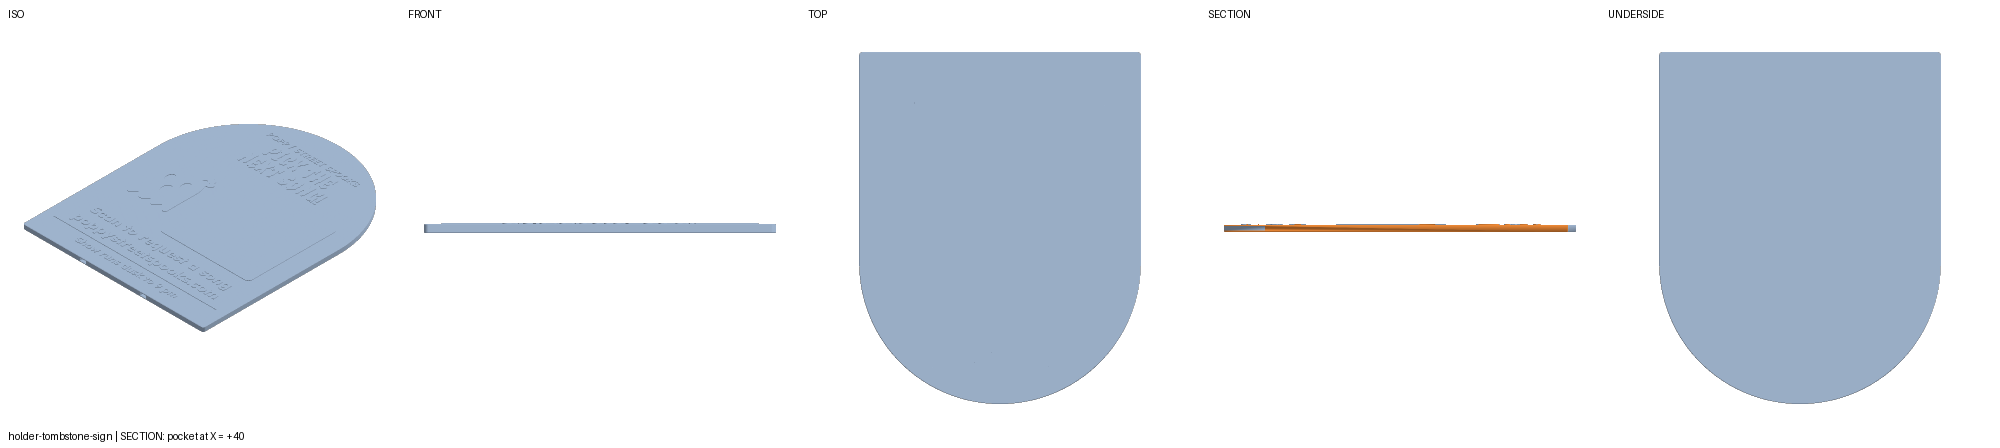
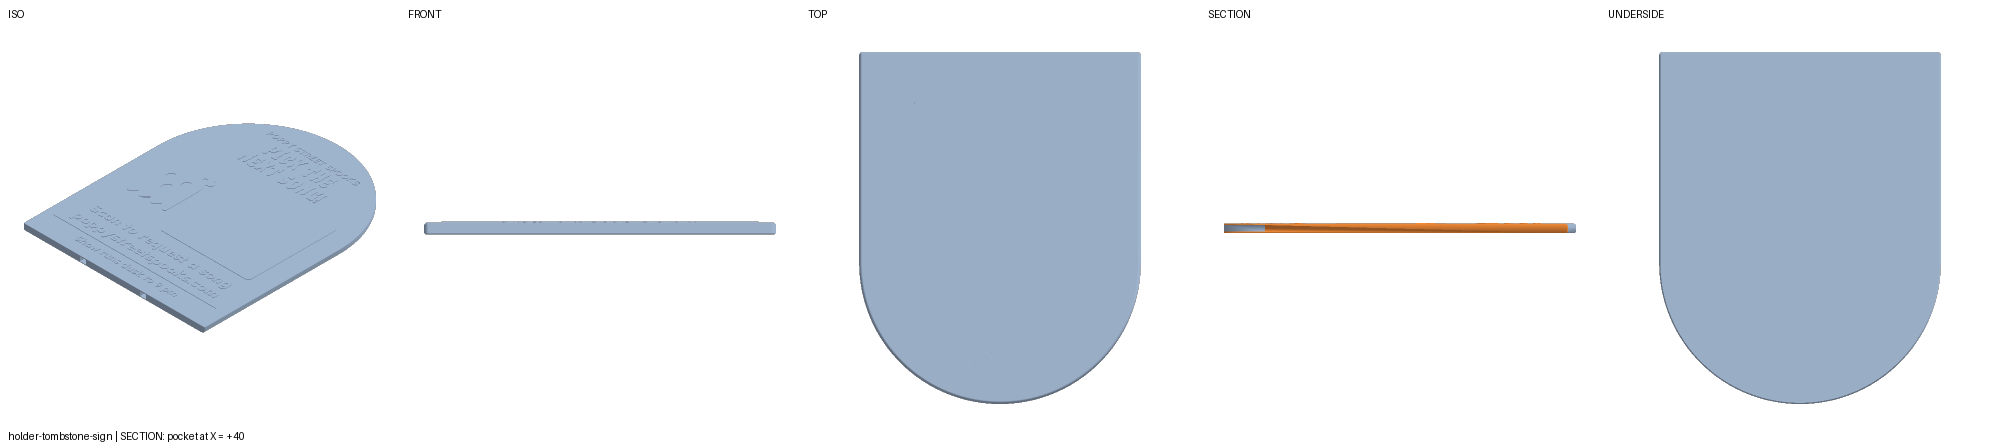
pst-aw7p3: tombstone sign + stake default 8 mm; top rim 2.5 round-over, bed rim 1.0 chamfer, pocket edge keeps 0.4 (#225)
CHANGE 1: sign and stake thickness defaults 6 -> 8 (pin works at the
default; tenon 3.2 -> 5.2), stake preset 'Stake (8 mm)', and a test pins
the two defaults equal.

CHANGE 2: new Params edge_round (2.5, 0 = the old 0.4 chamfer) and
bed_chamfer (1.0, 45 deg). The straight Y = 0 pocket edge keeps 0.4 on both
rims. OCCT eases a tangent-continuous rim loop whole, so each rim changes
size inside the 3 mm plan corners: the top is one evolving-radius fillet
(0.4 round on Y = 0 -> edge_round), the bed a swept 45 deg cutter ramping
0.4 -> bed_chamfer. Guards: edge_round + stroke floor < margin;
edge_round + bed_chamfer < thickness. Review sheets/sections + manifest
regenerated.

Claude-Session: https://claude.ai/code/session_016pnS1xtTfYZ38hTWmFHtZL

🤖 Generated with [Claude Code](https://claude.com/claude-code)

diff --git a/build123d/holders/tombstone_sign.py b/build123d/holders/tombstone_sign.py
@@ -62,10 +62,25 @@ viewer GLB's materials.
 Pockets print as flat 8 mm roofs over the void (bridges <= MAX_BRIDGE_MM;
 audit_exclusions lists those planes, measured by the tests first). The
 pin hole is a flat-topped teardrop (signs.pin_profile). Pocket mouths and
-the pin hole are mating edges and stay sharp; the plate rims carry a 0.4
-chamfer on both faces (bed: elephant's foot). Glyph, art and QR edges are
+the pin hole are mating edges and stay sharp. Glyph, art and QR edges are
 the feature and stay sharp, as on the label card. Raised features add
 material, so they may run down to the margin over the pockets.
+
+Rims (pst-aw7p3, after the first test print lifted an edge strip): the TOP
+rim (printed last) is rounded over `edge_round` (2.5): a round-over on an
+upper outer edge makes every layer smaller than the one below, so it never
+overhangs. The BED rim takes a 45-degree `bed_chamfer` (1.0, never a
+fillet on the bed side): it beats elephant's foot and gives a spatula a
+clean entry under the plate; it is wider than the guideline's 0.3-0.5 on
+purpose. The straight bottom edge (Y = 0, where the pockets enter, SKIN 1.2
+from each face) keeps EDGE_CHAMFER's 0.4 on both rims: a 2.5 round-over
+there would cut through the skin over each pocket mouth. The rim is one
+tangent-continuous loop, which OCCT eases whole, so each rim changes size
+INSIDE the two CORNER_R plan corners: the top is one evolving-radius
+fillet (0.4 along Y = 0, ramping to edge_round round each corner), so on
+that edge it is a 0.4 round, not a chamfer; the bed is cut by a swept 45-
+degree cutter whose size ramps 0.4 -> bed_chamfer the same way.
+edge_round = 0 is the former 0.4 chamfer on the whole top rim.
 
 Worst-case load: wind on the face, bending the plate about the X axis at
 the pockets; the tenons carry it into the stake. The load path runs along
@@ -77,8 +92,12 @@ from __future__ import annotations
 from functools import lru_cache, reduce
 from pathlib import Path
 
-from build123d import Axis, Box, Compound, Face, FontStyle, Part, Pos, Vector, Wire, chamfer, \
-    extrude
+from build123d import Axis, Box, Compound, Edge, Face, FontStyle, Part, Pos, Solid, Vector, \
+    Wire, chamfer, extrude
+from OCP.BRepFilletAPI import BRepFilletAPI_MakeFillet
+from OCP.BRepOffsetAPI import BRepOffsetAPI_MakePipeShell
+from OCP.gp import gp_Dir
+from OCP.TopoDS import TopoDS
 from holders import sign_ghost, signs
 from holders.label_card import _glyph_order
 from holders.printer import BED_X, BED_Y
@@ -93,7 +112,7 @@ RAISE_H = INLAY_DEPTH       # 0.6 mm = 3 layers proud of the top face
 FLOOR = STROKE_FLOOR_RAISED
 THRESHOLD = FLOOR + FLOOR_MARGIN  # what every raised stroke must clear
 RULE_W = THRESHOLD          # the footer rule is one stroke-floor line
-EDGE_CHAMFER = 0.4          # both rims, as the label card
+EDGE_CHAMFER = 0.4          # both rims of the Y = 0 pocket edge; the whole top rim at edge_round 0
 QR_CORNER_R = 6.0           # bone panel rounding, inside the 4-module quiet zone
 GHOST_SHARE = 0.65          # ghost height / panel height (the poster's is 0.47)
 CONTENT_CHORD = 0.5         # content stops where the arch is this share of the inset width
@@ -343,6 +362,14 @@ def validate(values: dict) -> None:
     signs.qr_regions(qr_data(values), qr)  # the pitch guard
     if values['retention'] == 'pin':
         signs.check_pin_thickness(values['thickness'])
+    r, d, t = values['edge_round'], values['bed_chamfer'], values['thickness']
+    if r + FLOOR >= m:
+        raise ValueError(f'edge_round {r:g} mm + the {FLOOR:g} mm stroke floor must stay '
+                         f'< margin {m:g} mm: the round-over would eat the raised features '
+                         f'at the margin; edge_round must be < {m - FLOOR:g} mm')
+    if max(r, EDGE_CHAMFER) + d >= t:
+        raise ValueError(f'edge_round {r:g} mm + bed_chamfer {d:g} mm must stay < thickness '
+                         f'{t:g} mm: the two rims would meet')
     if _frame(values) is None:
         need = min_height(values)
         advice = (f'height must be >= {need:g} mm for these values' if need <= MAX_HEIGHT else
@@ -353,12 +380,66 @@ def validate(values: dict) -> None:
             f'stroke floor between the {m:g} mm margin floor and the arch; {advice}')
 
 
+def _on_pocket_edge(point) -> bool:
+    return abs(point.Y) < 1e-6
+
+
+def _top_rim(blank: Part, r: float) -> Part:
+    """The top rim eased: a round-over r ramping to EDGE_CHAMFER on the Y = 0
+    edge across each plan corner (one evolving-radius fillet, since OCCT
+    eases the whole tangent loop), or at r = 0 a plain EDGE_CHAMFER."""
+    top = blank.faces().sort_by(Axis.Z)[-1]
+    if r == 0:
+        return chamfer(top.edges(), EDGE_CHAMFER)
+    mk = BRepFilletAPI_MakeFillet(blank.wrapped)
+    mk.Add(EDGE_CHAMFER, top.edges()[0].wrapped)  # the whole loop is one contour
+    for i in range(1, mk.NbEdges(1) + 1):
+        edge = Edge(mk.Edge(1, i))
+        r0, r1 = (EDGE_CHAMFER if _on_pocket_edge(edge.position_at(u)) else r for u in (0, 1))
+        mk.SetRadius(r0, r1, 1, i)
+    mk.Build()
+    if not mk.IsDone():
+        raise ValueError(f'edge_round {r:g} mm: the top rim round-over failed')
+    return Part(mk.Shape())
+
+
+def _bed_rim_cutter(outline: Face, d: float) -> Part:
+    """The bed rim's 45-degree chamfer as a cutter: per outline edge, a
+    swept triangle whose chamfer leg runs from (d inward, Z 0) to (the wall,
+    Z d), d being EDGE_CHAMFER at a Y = 0 vertex and `d` elsewhere, so it
+    ramps across each plan corner. The other two legs stand outside the
+    plate, so every cut crosses the bed and the wall transversally."""
+    up = Vector(0, 0, 1)
+    def section(point, tangent):
+        size = EDGE_CHAMFER if _on_pocket_edge(point) else d
+        inward = up.cross(tangent).normalized()
+        if not outline.is_inside(point + inward * 0.05):
+            inward = -inward
+        return Wire.make_polygon([point + inward * (2 * size) - up * size,
+                                  point - inward * size + up * (2 * size),
+                                  point - inward * size - up * size], close=True)
+    cutters = []
+    for edge in outline.outer_wire().edges():
+        spine = Wire([edge])
+        pipe = BRepOffsetAPI_MakePipeShell(spine.wrapped)
+        pipe.SetMode(gp_Dir(0, 0, 1))  # sections stay vertical
+        for u in (0, 1):
+            point = edge.position_at(u)
+            vertex = min(spine.vertices(), key=lambda v: (Vector(v) - point).length)
+            pipe.Add(section(point, edge.tangent_at(u)).wrapped,
+                     TopoDS.Vertex_s(vertex.wrapped), False, False)
+        pipe.Build()
+        pipe.MakeSolid()
+        cutters.append(Solid(pipe.Shape()))
+    return cutters[0].fuse(*cutters[1:]).clean()
+
+
 def plate(values: dict) -> Part:
-    """The uncoloured plate in the print frame: outline, rim chamfers, pockets, pin hole."""
+    """The uncoloured plate in the print frame: outline, eased rims, pockets, pin hole."""
     w, h, t = values['width'], values['height'], values['thickness']
-    blank = extrude(signs.outline(w, h, values['arch']), t)
-    rims = blank.faces().sort_by(Axis.Z)
-    out = chamfer(rims[0].edges() + rims[-1].edges(), EDGE_CHAMFER)
+    outline = signs.outline(w, h, values['arch'])
+    out = _top_rim(extrude(outline, t), values['edge_round'])
+    out -= _bed_rim_cutter(outline.faces()[0], values['bed_chamfer'])
     for x in signs.POCKET_XS:
         out -= Pos(x, signs.POCKET_DEPTH / 2 - 0.5, t / 2) * Box(
             signs.POCKET_W, signs.POCKET_DEPTH + 1, signs.pocket_height(t))
@@ -522,11 +603,17 @@ PARAMS = (
           min=100.0, max=MAX_WIDTH, step=1.0),
     Param('height', 'number', 300.0, label='Height', group='Plate', unit='mm',
           min=150.0, max=MAX_HEIGHT, step=1.0),
-    Param('thickness', 'number', 6.0, label='Thickness', group='Plate', unit='mm',
+    Param('thickness', 'number', 8.0, label='Thickness', group='Plate', unit='mm',
           min=5.0, max=12.0, step=0.2),
     Param('arch', 'enum', 'round', label='Arch', group='Plate', choices=('round', 'shoulder')),
     Param('margin', 'number', 12.0, label='Margin', group='Plate', unit='mm',
           min=3.0, max=20.0, step=0.5),
+    Param('edge_round', 'number', 2.5, label='Top edge round-over', group='Plate', unit='mm',
+          min=0.0, max=4.0, step=0.5,
+          description='Front-face rim; the pocket edge keeps 0.4. 0 = a 0.4 chamfer.'),
+    Param('bed_chamfer', 'number', 1.0, label='Bed edge chamfer', group='Plate', unit='mm',
+          min=0.4, max=1.5, step=0.1,
+          description='45-degree, bed-face rim; the pocket edge keeps 0.4.'),
     _text('eyebrow', 'Poppy Street Spooks', 'Eyebrow (printed in capitals)'),
     _text('title', 'Pick the next song!', 'Title'),
     _text('scan_line', 'Scan to request a song', 'Scan line'),

diff --git a/build123d/tests/test_tombstone_sign.py b/build123d/tests/test_tombstone_sign.py
@@ -92,7 +92,9 @@ def test_registered_as_a_multi_colour_household_model():
     colours = params['colours']
     assert colours.kind == 'integer' and type(colours.default) is int
     assert (colours.default, colours.min, colours.max) == (8, 2, 8)
-    assert params['margin'].default == 12.0 and params['thickness'].default == 6.0
+    assert params['margin'].default == 12.0 and params['thickness'].default == 8.0
+    assert (params['edge_round'].default, params['edge_round'].min, params['edge_round'].max) == (2.5, 0, 4)
+    assert (params['bed_chamfer'].default, params['bed_chamfer'].min, params['bed_chamfer'].max) == (1, 0.4, 1.5)
     assert params['qr_size'].default == 120.0
     assert params['width'].max == m.MAX_WIDTH == 325 and params['height'].max == m.MAX_HEIGHT == 320
     assert list(PRESETS) == ['default', 'one-ams', 'two-colour', 'pinned', 'small']
@@ -339,6 +341,16 @@ def test_art_row_guard_names_the_inset_width():
 def test_blank_host_is_a_guard():
     with pytest.raises(ValueError, match=r'host is blank'):
         m.validate(SPEC.resolve_values({'host': '  '}))
+
+
+def test_rim_guards_name_the_margin_and_the_thickness():
+    with pytest.raises(ValueError, match=r'edge_round 3 mm \+ the 0\.9 mm stroke floor must '
+                                         r'stay < margin 3\.5 mm.*< 2\.6 mm'):
+        m.validate(SPEC.resolve_values({'edge_round': 3.0, 'margin': 3.5}))
+    m.validate(SPEC.resolve_values({'edge_round': 2.5, 'margin': 3.5}))
+    with pytest.raises(ValueError, match=r'edge_round 4 mm \+ bed_chamfer 1\.5 mm must stay '
+                                         r'< thickness 5 mm'):
+        m.validate(SPEC.resolve_values({'edge_round': 4.0, 'bed_chamfer': 1.5, 'thickness': 5.0}))
 
 
 def test_height_below_the_arch_radius_is_a_guard_not_a_kernel_error():
@@ -735,7 +747,8 @@ def test_raw_audit_fails_only_on_the_excluded_ceilings():
 
 def unfinished_edges(values, plate):
     """Plate edges that are neither eased (on a 45-degree rim chamfer),
-    tangent (outline seams) nor joint (pocket / pin: mating, left sharp)."""
+    tangent (outline seams, and every edge of the top round-over) nor joint
+    (pocket / pin: mating, left sharp)."""
     t = values['thickness']
     joint = [(x - signs.POCKET_W / 2 - 1e-3, x + signs.POCKET_W / 2 + 1e-3) for x in signs.POCKET_XS]
     bad = []
@@ -743,7 +756,9 @@ def unfinished_edges(values, plate):
         c = edge.center()
         faces = [f for f in plate.faces() if any(e.is_same(edge) for e in f.edges())]
         normals = [f.normal_at(c) for f in faces]
-        chamfered = any(abs(abs(n.Z) - math.sqrt(0.5)) < 1e-3 for n in normals)
+        # 45 degrees, or up to ~2 degrees STEEPER on the bed rim's corner
+        # ramp, whose chamfer tilts as its size changes (never an overhang)
+        chamfered = any(-0.03 < abs(n.Z) - math.sqrt(0.5) < 1e-3 for n in normals)
         tangent = len(normals) == 2 and normals[0].dot(normals[1]) > 0.999
         in_pocket = c.Y <= signs.POCKET_DEPTH + 1e-3 and any(a <= c.X <= b for a, b in joint) \
             and signs.SKIN - 1e-3 <= c.Z <= t - signs.SKIN + 1e-3
@@ -755,8 +770,44 @@ def unfinished_edges(values, plate):
 
 @pytest.mark.parametrize('preset_id', ['default', 'pinned'])
 def test_every_plate_edge_is_eased_tangent_or_a_mating_edge(preset_id):
-    """Rims carry the 0.4 chamfer; outline seams are tangent; pocket and pin
-    edges are the joint (mating, left sharp). Raised feature edges are the
-    feature (sharp, as on the label card)."""
+    """Rims carry the round-over / bed chamfer; outline seams are tangent;
+    pocket and pin edges are the joint (mating, left sharp). Raised feature
+    edges are the feature (sharp, as on the label card)."""
     values = values_of(preset_id)
     assert not unfinished_edges(values, m.plate(values))
+
+
+def _eased(plate, point, inward, up, depth):
+    """Is the rim corner at `point` cut back `depth` along the diagonal
+    (`inward` in plan, `up` = +-Z into the plate)?"""
+    return not plate.is_inside(point + inward * depth + up * depth)
+
+
+@pytest.mark.parametrize('overrides', [{}, {'arch': 'shoulder', 'edge_round': 1.5},
+                                       {'edge_round': 0.0}])
+def test_pocket_edge_keeps_04_and_the_arch_and_sides_take_edge_round_and_bed_chamfer(overrides):
+    """A rim eased by a 45-degree chamfer d is cut along its corner diagonal
+    to d / 2, a round-over r to r (1 - 1/sqrt 2); probe 10 % either side.
+    The Y = 0 pocket edge keeps 0.4 on both rims (a 0.4 round on top), so a
+    2.5 round-over cannot reach the 1.2 mm skin over the pocket mouths."""
+    values = SPEC.resolve_values(overrides)
+    plate = m.plate(values)
+    w, h, t = values['width'], values['height'], values['thickness']
+    r, d = values['edge_round'], values['bed_chamfer']
+    top_cut = r * (1 - math.sqrt(0.5)) if r else m.EDGE_CHAMFER / 2
+    pocket_top_cut = m.EDGE_CHAMFER * (1 - math.sqrt(0.5)) if r else m.EDGE_CHAMFER / 2
+    down, up = Vector(0, 0, -1), Vector(0, 0, 1)
+    rims = [  # (point on the outline at Z 0, inward, top cut, bed cut)
+        (Vector(0, 0, 0), Vector(0, 1, 0), pocket_top_cut, m.EDGE_CHAMFER / 2),
+        (Vector(signs.POCKET_OFFSET + 8, 0, 0), Vector(0, 1, 0), pocket_top_cut,
+         m.EDGE_CHAMFER / 2),
+        (Vector(w / 2, h / 3, 0), Vector(-1, 0, 0), top_cut, d / 2),
+        (Vector(-w / 2, h / 3, 0), Vector(1, 0, 0), top_cut, d / 2),
+        (Vector(0, h, 0), Vector(0, -1, 0), top_cut, d / 2),
+    ]
+    for point, inward, top, bed in rims:
+        crown = point + Vector(0, 0, t)
+        assert _eased(plate, crown, inward, down, 0.9 * top), (point, 'top')
+        assert not _eased(plate, crown, inward, down, 1.1 * top), (point, 'top')
+        assert _eased(plate, point, inward, up, 0.9 * bed), (point, 'bed')
+        assert not _eased(plate, point, inward, up, 1.1 * bed), (point, 'bed')

diff --git a/build123d/holders/tombstone_stake.py b/build123d/holders/tombstone_stake.py
@@ -9,8 +9,9 @@ whole printed length, tip to tenon ends, so length <= 320 is the bed bound.
 
 The joint numbers come from holders/signs.py, which the sign imports too:
 each tenon is signs.tenon_w() x signs.tenon_len() x signs.tenon_t(thickness)
-(7.6 x 34.6 x 3.2 at thickness 6). `thickness` is the stake blade's and
-must equal the sign's: the tenon height is the contract's formula of it.
+(7.6 x 34.6 x 5.2 at the default thickness 8). `thickness` is the stake
+blade's and must equal the sign's: the tenon height is the contract's
+formula of it, and the two parts' defaults are pinned equal by a test.
 The tenon is FLUSH WITH THE BED FACE (stake Z in [0, tenon_t]), never
 centred in the blade, because a mid-thickness tenon printed flat would be a
 7.6 x 34.6 mm flat ceiling. Assembled, sign Z = stake Z + SKIN +
@@ -45,9 +46,9 @@ Worst-case load: wind on the face of the default 240 x 300 sign, pushing
 along Z. The sign's moment about X crosses the joint in the two tenons,
 spreads through the head and the 45-degree shoulders into the shaft, and
 is resisted by the soil along the buried shaft. The blade prints flat, so
-that bending stress runs along the layers. At thickness 6 the tenons (7.6
-x 3.2 each) are the weakest section; use 8 mm (tenons 5.2) for an exposed
-site. PLA or PCTG; PCTG for a stake left outdoors.
+that bending stress runs along the layers. The tenons (7.6 x 5.2 each at
+the default 8 mm; 3.2 at 6) are the weakest section, so keep 8 mm or more
+for an exposed site. PLA or PCTG; PCTG for a stake left outdoors.
 """
 from __future__ import annotations
 
@@ -60,7 +61,7 @@ from holders.printer import BED_Y
 from holders.registry import ModelSpec, Param, Preset, register
 from scripts.thumbnail import PlaneSpec
 
-EDGE_CHAMFER = 0.4          # both rims and the tenons' bed rims, as the sign
+EDGE_CHAMFER = 0.4          # both rims and the tenons' bed rims (the sign's pocket edge)
 CORNER_R = signs.CORNER_R   # plan rounding of convex corners (3)
 SHOULDER_R = 5.0            # plan fillet of the concave shoulder-to-shaft corners
 POINT_DEG = 45.0            # included angle of the shaft's point
@@ -225,7 +226,7 @@ PARAMS = (
     Param('length', 'number', 300.0, label='Length', group='Stake', unit='mm',
           min=150.0, max=MAX_LENGTH, step=1.0,
           description='Tip to tenon ends: the whole printed length.'),
-    Param('thickness', 'number', 6.0, label='Thickness', group='Stake', unit='mm',
+    Param('thickness', 'number', 8.0, label='Thickness', group='Stake', unit='mm',
           min=5.0, max=10.0, step=0.2,
           description="Match the sign's thickness: the tenons are sized from it."),
     Param('head_width', 'number', 90.0, label='Head width', group='Head', unit='mm',
@@ -255,7 +256,7 @@ SPEC = register(ModelSpec(
     print_orientation=(0, 0, 1),  # flat, the tenon face on the bed
     params=PARAMS,
     presets=(
-        Preset('default', 'Stake (6 mm)', {}),
+        Preset('default', 'Stake (8 mm)', {}),
         Preset('long', 'Long (320 mm)', {'length': 320.0}),
         Preset('cross-bar', 'With cross-bar', {'cross_bar': True}),
         Preset('pinned', 'Pinned (8 mm)', {'thickness': 8.0, 'retention': 'pin'}),

diff --git a/build123d/tests/test_tombstone_stake.py b/build123d/tests/test_tombstone_stake.py
@@ -51,7 +51,7 @@ def test_registered_as_a_household_sign_model():
     params = {p.name: p for p in SPEC.params}
     assert (params['width'].default, params['width'].min, params['width'].max) == (40, 25, 60)
     assert (params['length'].default, params['length'].max) == (300, 320)
-    assert (params['thickness'].default, params['thickness'].min, params['thickness'].max) == (6, 5, 10)
+    assert (params['thickness'].default, params['thickness'].min, params['thickness'].max) == (8, 5, 10)
     assert (params['head_width'].default, params['head_width'].min) == (90, pytest.approx(87.6))
     assert (params['head_height'].min, params['head_height'].max) == (20, 60)
     assert params['retention'].choices == ('none', 'pin') and params['retention'].default == 'none'
@@ -151,6 +151,13 @@ def test_point_is_45_degrees_included_and_ends_below_the_shoulders():
 
 
 # --- the 3D joint against the real sign -----------------------------------
+
+def test_stake_default_thickness_is_the_signs():
+    """The tenons are the contract's formula of the stake's OWN thickness
+    Param: a sign default that moved alone would ship a loose joint
+    (tenon_t(6) = 3.2 in an 8 mm sign's 5.6 mm pocket)."""
+    assert m.DEFAULTS['thickness'] == tombstone_sign.DEFAULTS['thickness'] == 8.0
+
 
 def _assembled(thickness: float, pin: bool):
     """(sign, stake placed in the sign frame) for one thickness."""

diff --git a/build123d/docs/tombstone-sign.md b/build123d/docs/tombstone-sign.md
@@ -9,7 +9,7 @@ in its bottom edge take a separately printed stake (S2,
 `holder-tombstone-stake`). It lives in the `household` catalog category.
 
 Presets:
-- **default**: 240 × 300 × 6, eight colours.
+- **default**: 240 × 300 × 8, eight colours.
 - **one-ams**: four colours (base, bone, pumpkin, poppy), one AMS.
 - **two-colour**: bone on ground; the QR dark modules are holes.
 - **pinned**: 8 mm plate with a pin cross-hole.
@@ -21,7 +21,9 @@ Presets:
 | Controls | Domain / behaviour |
 | --- | --- |
 | Width / height | 100–325 / 150–320 mm (the H2S single-nozzle bed, printed flat); height must also be ≥ the arch radius + 6 mm |
-| Thickness | 5–12 mm; `retention = pin` needs ≥ 7.8 mm |
+| Thickness | 5–12 mm (default 8, so `retention = pin` works out of the box); `retention = pin` needs ≥ 7.8 mm |
+| Top edge round-over | 0–4 mm (default 2.5); 0 is a 0.4 mm chamfer. With the stroke floor (0.9) it must stay below the margin |
+| Bed edge chamfer | 0.4–1.5 mm (default 1.0), 45°. Round-over + bed chamfer must stay below the thickness |
 | Arch | `round` (radius = width / 2) or `shoulder` (radius = width / 3, flat shoulders) |
 | Margin | 3–20 mm (default 12) inset from the outline; the rhythm unit is a third of it |
 | Eyebrow, title, scan line, host, footer | Printable ASCII, ≤ 24 characters each; a blank line is left out |
@@ -202,9 +204,26 @@ cannot drift apart.
 
 ## Printability
 
-The sign prints flat, face up. The rims of both faces carry a 0.4 mm
-chamfer (on the bed side, this relieves elephant's foot). In plan, the
-outline corners are rounded 3 mm. Every raised feature has walls ≥ 0.9 mm
+The sign prints flat, face up. In plan, the outline corners are rounded
+3 mm. The rims (pst-aw7p3, after the first test print lifted a strip along
+the edge of the top face):
+
+- **Top rim** (printed last): a round-over, `edge_round` (2.5 mm). On an
+  upper outer edge, a round-over makes every layer smaller than the one
+  below it, so it never overhangs.
+- **Bed rim**: a 45° chamfer, `bed_chamfer` (1.0 mm). The bed side never
+  gets a fillet. This is wider than the guideline's 0.3–0.5 mm on purpose:
+  it beats elephant's foot and gives a spatula a clean way under the plate.
+- **The straight bottom edge** (Y = 0, where the pockets and their 1.2 mm
+  skins meet the edge) keeps 0.4 mm on both rims. A 2.5 mm round-over there
+  would cut through the skin over each pocket mouth.
+
+The rim is one tangent-continuous loop, and OCCT eases a tangent loop as a
+whole. So each rim changes size inside the two 3 mm bottom plan corners.
+The top rim is one fillet whose radius ramps from 0.4 (a 0.4 round, not a
+chamfer, along Y = 0) to `edge_round`. The bed rim is cut by a swept 45°
+cutter whose size ramps from 0.4 to `bed_chamfer`. On the ramp the chamfer
+tilts up to about 2° steeper than 45°, which is never an overhang. Every raised feature has walls ≥ 0.9 mm
 (the stroke floor), so the thin-wall check passes without an exclusion.
 
 A pocket's roof is a flat 8 mm bridge, below `MAX_BRIDGE_MM` (10). The
@@ -248,7 +267,7 @@ gives the minimum. So is a head narrower than 2 × (40 + 7.6 / 2) = 87.6 mm,
 where the tenons would overhang the head.
 
 Presets:
-- **default**: 40 × 300 × 6, head 90 × 30.
+- **default**: 40 × 300 × 8, head 90 × 30 (the sign's default thickness; a test pins the two equal).
 - **long**: 320 mm.
 - **cross-bar**: adds the cross-bar.
 - **pinned**: 8 mm blade with the pin cross-hole, for the 8 mm pinned sign.
